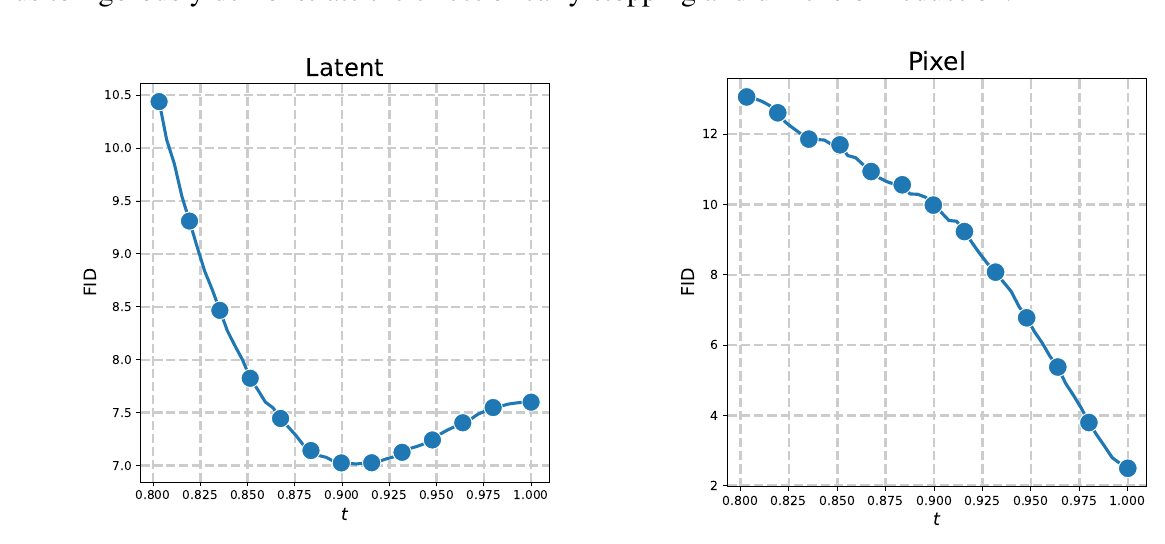
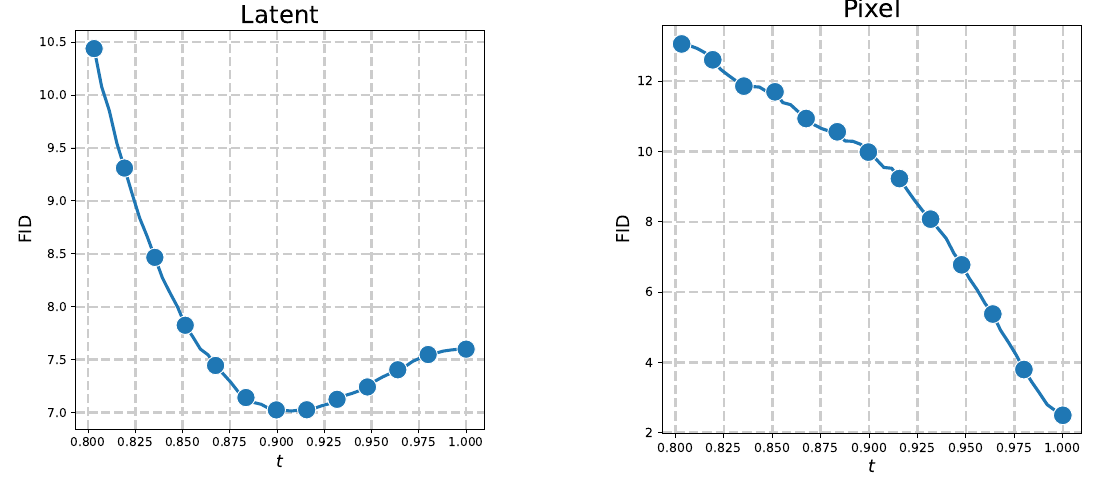
Home: About rewritten around advisors (no name re-introduction), key-facts list; sidebar: tighter portrait crop, larger name with 吳雨翰, new title and affiliation lines; paper page: In brief before the figure; DiffusionGemma key figure; caption font; tighter Optimal Stopping crop
Claude-Session: https://claude.ai/code/session_012LnNLbLyWvKJp2utV7ZEo9

diff --git a/_sass/layout/_skin.scss b/_sass/layout/_skin.scss
@@ -332,24 +332,47 @@ a {
 
 .sidebar .author__name {
   margin: 0.25em 0 0.1em;
-  font-size: 1.15em;
+  font-size: 1.45em;
   font-weight: 800;
+  letter-spacing: -0.02em;
+  line-height: 1.15;
 
   @include breakpoint($large) {
-    margin-top: 0.75em;
+    margin-top: 0.7em;
   }
 }
 
-.author__pronouns {
-  margin: 0;
-  font-size: 0.8em;
+/* name in Chinese characters under the Latin name */
+.author__name-native {
+  display: block;
+  margin-top: 0.2em;
+  font-size: 0.62em;
+  font-weight: 600;
+  letter-spacing: 0.12em;
   color: var(--global-text-color-light);
 }
 
+.author__pronouns {
+  margin: 0.3em 0 0;
+  font-family: $skin-mono;
+  font-size: 0.72em;
+  color: var(--global-text-color-light);
+}
+
+/* title and affiliation */
 .sidebar .author__bio {
-  margin: 0.6em 0 0;
-  font-size: 0.85em;
-  line-height: 1.5;
+  margin: 0.75em 0 0;
+  font-size: 0.9em;
+  font-weight: 600;
+  line-height: 1.45;
+  color: var(--global-text-color);
+}
+
+.sidebar .author__affiliation {
+  margin: 0.2em 0 0;
+  font-size: 0.82em;
+  line-height: 1.45;
+  color: var(--global-text-color-light);
 
   @include breakpoint($large) {
     margin-bottom: 1.1em;
@@ -749,6 +772,7 @@ a {
   grid-template-rows: 0fr;
   margin: 0;
   padding: 0 0.9em;
+  border-width: 0;
   border-color: transparent;
   opacity: 0;
   overflow: hidden;
@@ -767,6 +791,7 @@ a {
     grid-template-rows: 1fr;
     margin: 0.9em 0 0.25em;
     padding: 0.7em 0.9em;
+    border-width: 1px;
     border-color: var(--global-border-color);
     opacity: 1;
   }
@@ -945,6 +970,40 @@ a {
 /* --------------------------------------------------------------------------
    Home page components (used in _pages/about.md)
    -------------------------------------------------------------------------- */
+
+/* key facts on the home page: monospace label, value */
+.page__content .facts {
+  display: grid;
+  grid-template-columns: max-content 1fr;
+  gap: 0.35em 1.25em;
+  margin: 0 0 1.25em;
+
+  dt {
+    margin: 0;
+    font-family: $skin-mono;
+    font-size: 0.78em;
+    font-weight: 600;
+    letter-spacing: 0.04em;
+    text-transform: uppercase;
+    color: var(--global-text-color-light);
+    padding-top: 0.25em;
+  }
+
+  dd {
+    margin: 0;
+    font-size: 0.95em;
+    line-height: 1.55;
+  }
+
+  @media screen and (max-width: 599px) {
+    grid-template-columns: 1fr;
+    gap: 0 0;
+
+    dd {
+      margin-bottom: 0.6em;
+    }
+  }
+}
 
 .chips {
   display: flex;
@@ -1459,6 +1518,7 @@ a {
 
   figcaption {
     margin-top: 0.6em;
+    font-family: inherit;   /* the theme sets captions in a serif */
     font-size: 0.85em;
     line-height: 1.5;
     color: var(--global-text-color-light);

diff --git a/_layouts/publication.html b/_layouts/publication.html
@@ -43,18 +43,18 @@ layout: default
       </header>
 
       <section class="page__content" itemprop="text">
-        {% if page.figure %}
-        <figure class="post-figure pubpage__figure">
-          <img src="{{ base_path }}{{ page.figure }}" alt="Key figure from the paper" loading="lazy">
-          {% if page.figure_caption %}<figcaption>{{ page.figure_caption }}</figcaption>{% endif %}
-        </figure>
-        {% endif %}
-
         {% if page.highlights %}
         <h2 id="in-brief">In brief</h2>
         <ul class="brief">
           {% for h in page.highlights %}<li>{{ h | markdownify | remove: "<p>" | remove: "</p>" }}</li>{% endfor %}
         </ul>
+        {% endif %}
+
+        {% if page.figure %}
+        <figure class="post-figure pubpage__figure">
+          <img src="{{ base_path }}{{ page.figure }}" alt="Key figure from the paper" loading="lazy">
+          {% if page.figure_caption %}<figcaption>{{ page.figure_caption }}</figcaption>{% endif %}
+        </figure>
         {% endif %}
 
         {{ content }}

diff --git a/_includes/author-profile.html b/_includes/author-profile.html
@@ -15,9 +15,10 @@
   </div>
 
   <div class="author__content">
-    <h3 class="author__name">{{ author.name }}</h3>
+    <h3 class="author__name">{{ author.name }}{% if author.name_native %} <span class="author__name-native" lang="zh-Hant">{{ author.name_native }}</span>{% endif %}</h3>
     {% if author.pronouns %}<p class="author__pronouns">{{ author.pronouns }}</p>{% endif %}
     {% if author.bio %}<p class="author__bio">{{ author.bio }}</p>{% endif %}
+    {% if author.affiliation %}<p class="author__affiliation">{{ author.affiliation }}</p>{% endif %}
   </div>
 
   <div class="author__urls-wrapper">

diff --git a/_pages/about.md b/_pages/about.md
@@ -1,13 +1,20 @@
 ---
 permalink: /
-title: "About me"
+title: "About"
 author_profile: true
 redirect_from: 
   - /about/
   - /about.html
 ---
 
-Hi, I am Yu-Han (吳雨翰). I have been a PhD student in [LPSM](https://www.lpsm.paris/) at [Sorbonne University](https://www.sorbonne-universite.fr/) since September 2024, supervised by [Gérard Biau](https://perso.lpsm.paris/~biau/), [Claire Boyer](https://www.imo.universite-paris-saclay.fr/~claire.boyer/) and [Pierre Marion](https://pierremarion23.github.io/). I am also part of the co-advised PhD student program at Google DeepMind, co-advised by Quentin Berthet and Romuald Elie.
+I am a PhD student in machine learning at [LPSM](https://www.lpsm.paris/), [Sorbonne University](https://www.sorbonne-universite.fr/), since September 2024, and part of the co-advised PhD student program at [Google DeepMind](https://deepmind.google/).
+
+<dl class="facts">
+  <dt>Advisors</dt>
+  <dd><a href="https://perso.lpsm.paris/~biau/">Gérard Biau</a>, <a href="https://www.imo.universite-paris-saclay.fr/~claire.boyer/">Claire Boyer</a> and <a href="https://pierremarion23.github.io/">Pierre Marion</a></dd>
+  <dt>At Google DeepMind</dt>
+  <dd>Quentin Berthet and Romuald Elie</dd>
+</dl>
 
 <div class="chips" aria-label="Research interests">
   <span class="chips__label">Research interests</span>

diff --git a/_publications/diffusion-gemma.md b/_publications/diffusion-gemma.md
@@ -10,6 +10,8 @@ paperurl: '/files/diffusiongemma.pdf'
 arxivurl: 'https://arxiv.org/abs/2608.00146'
 authors: 'DiffusionGemma Team, Google DeepMind'
 summary: 'An open-weight discrete-diffusion language model fine-tuned from Gemma 4.'
+figure: /images/papers/diffusion-gemma.png
+figure_caption: "Pareto plot of quality versus output decoding speed comparing DiffusionGemma to the Gemma 4 model family and other diffusion models. Quality and output speed are calculated as the average across GPQA-Diamond and LiveCodeBench-v6 for all models."
 highlights:
   - "**Problem.** Autoregressive LLMs decode one token at a time, a sequential bottleneck for generation speed."
   - "**Approach.** Fine-tune Gemma 4 into a block-diffusion model that refines 256 tokens in parallel: supervised denoising, then reinforcement learning with sampler distillation, using under 10% of the base model's training tokens."
